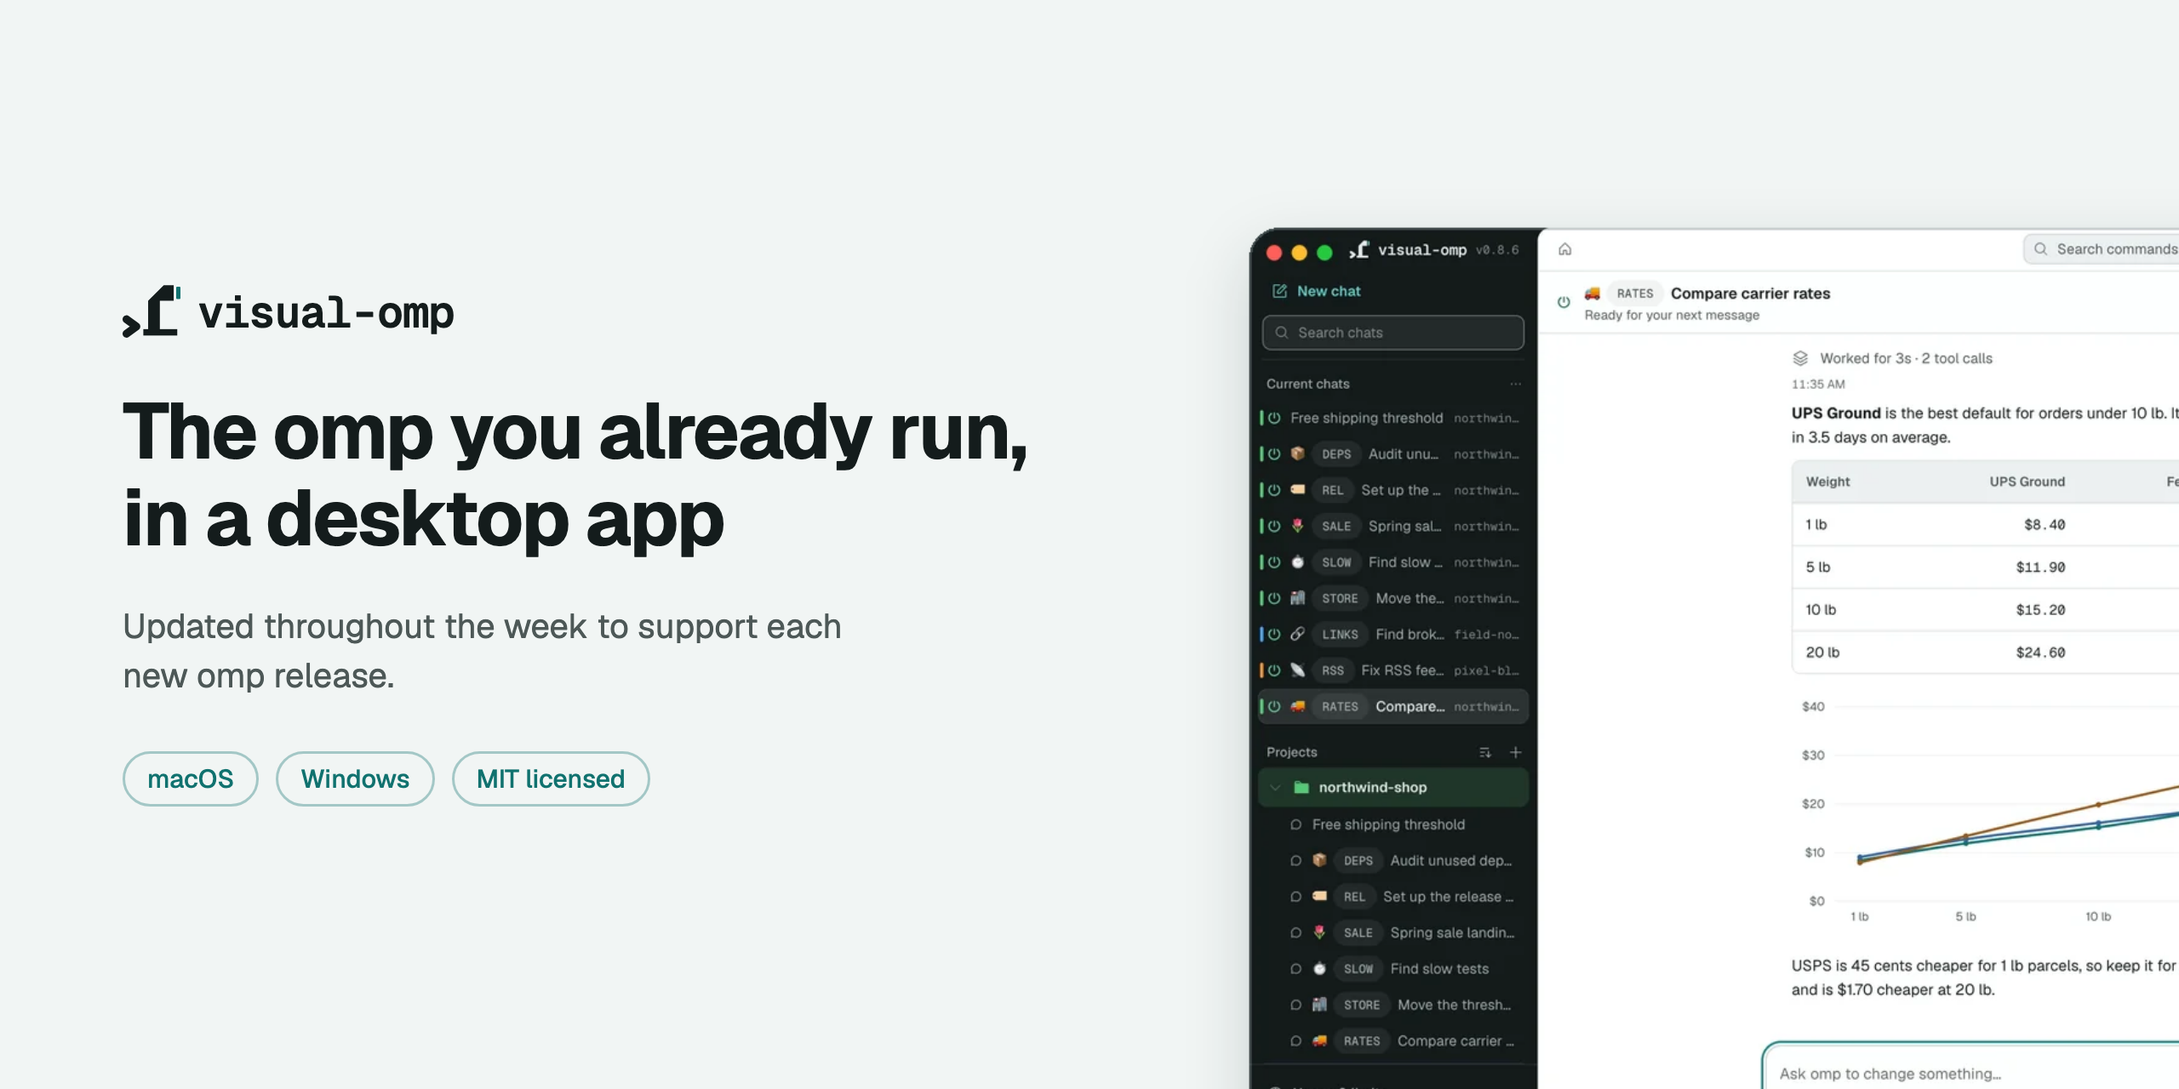
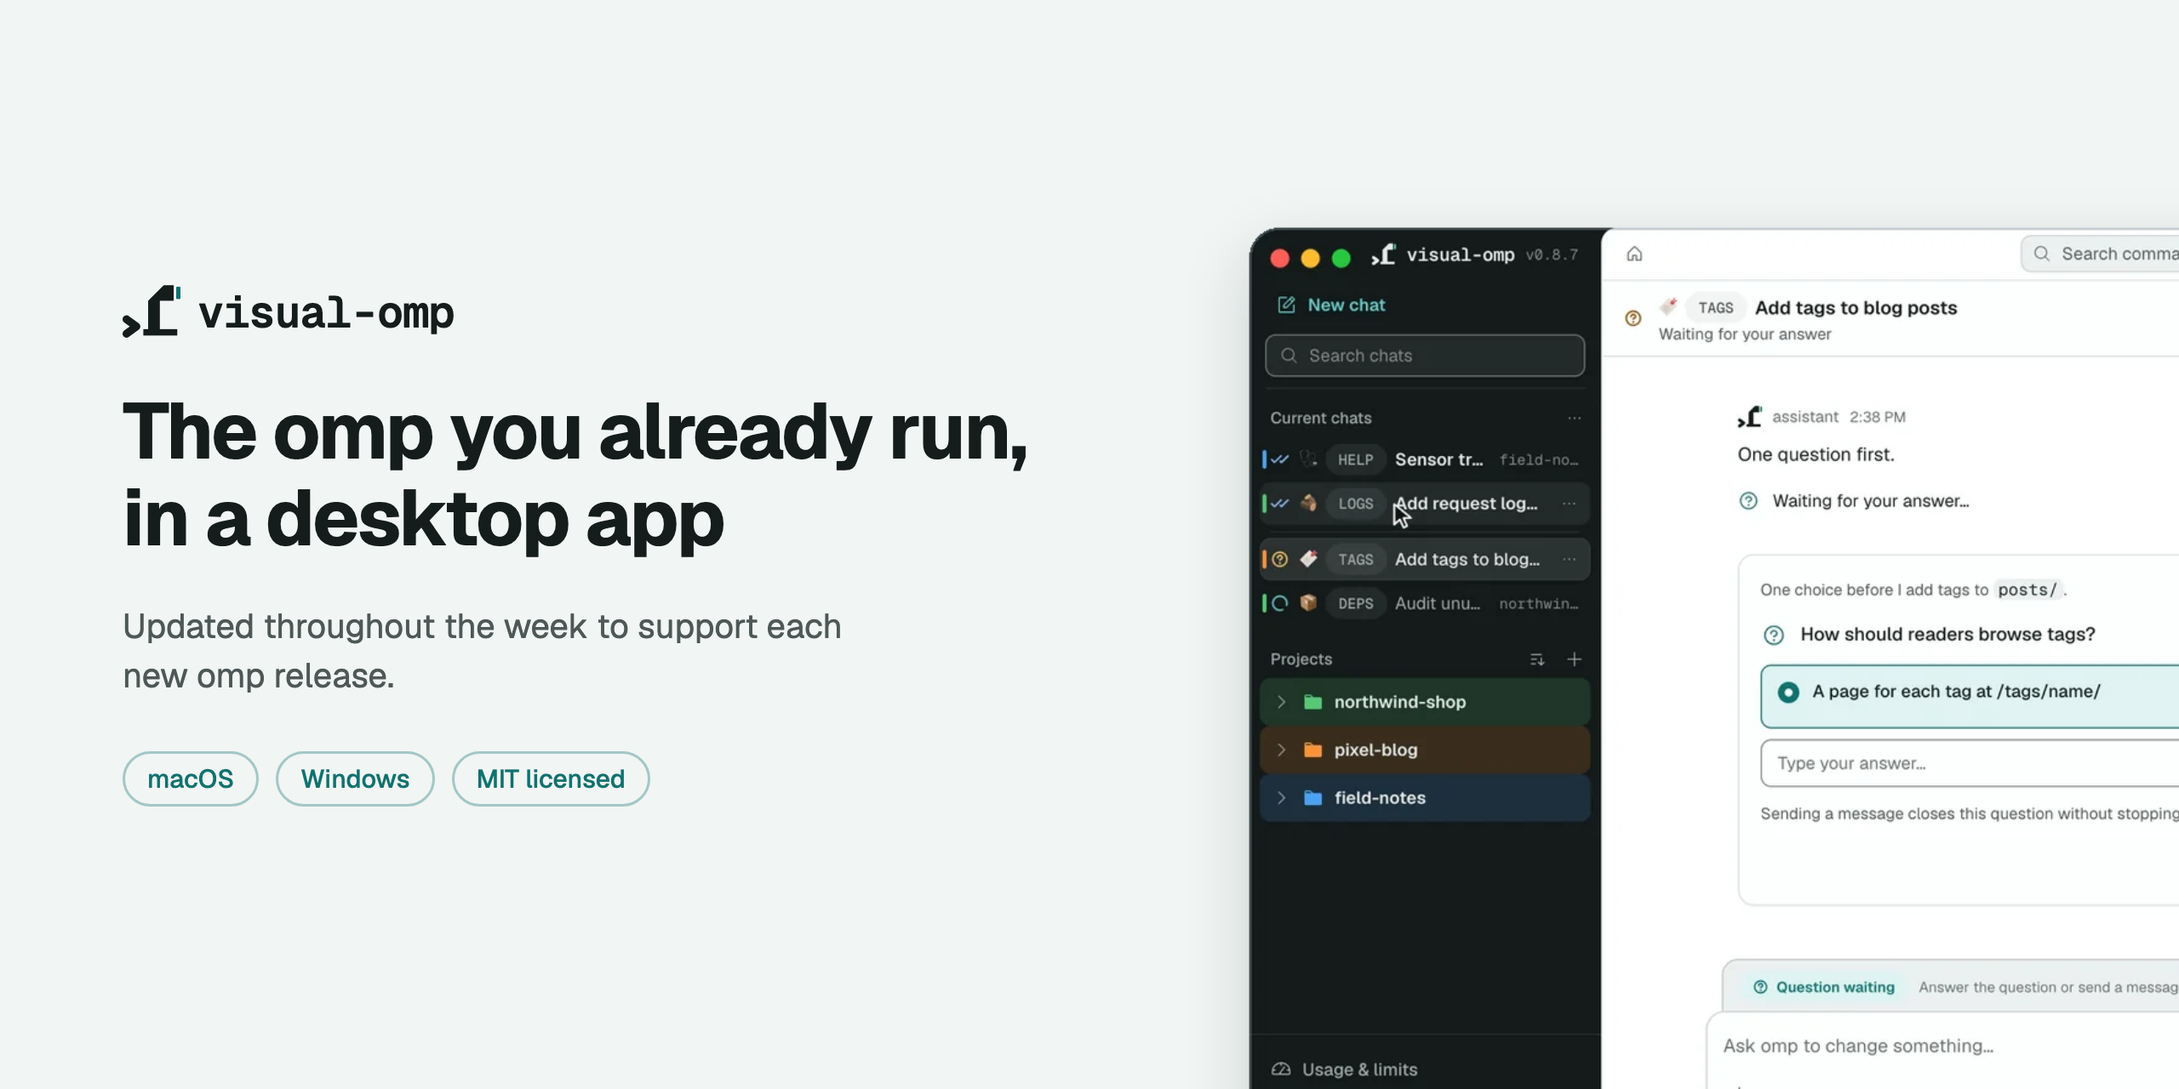
docs(readme): lead with chat statuses, files and themes
- New hero recording: four chats in three color-coded projects work at once, with the sidebar showing working, helpers-only, waiting and unopened-result states.
- New files recording: omp exports a page as a PDF and a PNG that open in the side panel, and the page it serves opens in the Preview pane.
- Features now open with every chat in one window, helpers, files and web pages, live outputs, themes and usage; browser steps mention omp's browser relay.
- Removes the rates chart and /extensions recordings; the banner uses the new hero poster.

diff --git a/scripts/readme/banner.html b/scripts/readme/banner.html
@@ -41,7 +41,7 @@
     <p>Updated throughout the week to support each new omp release.</p>
     <div class="meta"><span>macOS</span><span>Windows</span><span>MIT licensed</span></div>
   </div>
-  <img class="window" src="../../docs/images/hero-still.webp" alt="">
+  <img class="window" src="../../docs/images/glance-still.webp" alt="">
 </div>
 </body>
 </html>

diff --git a/README.md b/README.md
@@ -6,7 +6,7 @@
 </p>
 
 <p align="center">
-  visual-omp runs the <a href="https://github.com/can1357/oh-my-pi">omp</a> you already use and shows its chats, plans, helpers and changes in one window.
+  visual-omp runs the <a href="https://github.com/can1357/oh-my-pi">omp</a> you already use and puts every chat in one window, with each chat's status in the sidebar and its files, pages and helpers beside it.
 </p>
 
 <p align="center">
@@ -27,12 +27,12 @@
 
 <p align="center">
   <picture>
-    <source media="(prefers-reduced-motion: reduce)" srcset="docs/images/hero-still.webp">
-    <img src="docs/images/hero.webp" width="1440" alt="A message asks omp to compare three carriers in a rates file. omp reads the file, and its reply streams in with a table of prices by parcel weight and a line chart drawn beneath the table.">
+    <source media="(prefers-reduced-motion: reduce)" srcset="docs/images/glance-still.webp">
+    <img src="docs/images/glance.webp" width="1440" alt="Four chats in three color-coded projects work at once. While a new chat adds request logging, the sidebar shows the others working, one helper chat running its helpers, a troubleshooting page finishing with a new result mark, and a tags chat waiting for an answer. The tags question is answered from its card, and the finished request logging chat opens from the top of the list.">
   </picture>
 </p>
 
-<p align="center"><sub>omp reads the rate file, then its reply arrives with a table and the chart visual-omp draws from it.</sub></p>
+<p align="center"><sub>Four chats in three projects work at once. One stops to ask a question, and the others finish with a result mark that moves them to the top of Current chats.</sub></p>
 
 > [!NOTE]
 > The recordings on this page come from a development build made after visual-omp 0.8.6, using demo projects. A scripted demo model writes omp's replies, and omp runs every tool call in those projects. Some recordings speed up typing, waits and reply text, so they do not show a model's speed.
@@ -40,15 +40,6 @@
 ## Your own omp
 
 visual-omp starts the omp you installed in a hidden terminal on your computer and shows omp's own screen, so each chat uses your sign-ins, settings, extensions and saved sessions.
-
-<p align="center">
-  <picture>
-    <source media="(prefers-reduced-motion: reduce)" srcset="docs/images/own-omp-still.webp">
-    <img src="docs/images/own-omp.webp" width="1440" alt="Typing a slash in the message box lists omp's commands. Choosing /extensions opens omp's Extension Control Center inside the chat, where the list scrolls and a source filter changes before the screen closes.">
-  </picture>
-</p>
-
-<p align="center"><sub><code>/extensions</code> opens omp's Extension Control Center in the chat, drawn from what omp sends.</sub></p>
 
 - Slash commands go to omp as you type them. Commands with an app screen open that screen, and omp menus without one, such as `/extensions`, open in the omp screen.
 - Sessions you start in a terminal appear in the sidebar. On macOS you can follow one while the terminal works and continue it in the app once the terminal releases it.
@@ -72,35 +63,24 @@ visual-omp uses these omp mechanisms:
 
 ## Features
 
-### Tool steps and bash details
+### Every chat in one window
 
-Tool calls fold into a short list of steps. Open a bash step to see each command's state, the values it set and how long it took, then replay the run one event at a time.
+Each chat runs its own omp, and Current chats lists them all with their status. A spinner means omp is working, a pulsing robot means only its helpers are still working, a question mark means omp is waiting for your answer, and double check marks with a bold title mark a result you haven't opened yet. Chats with unopened results move to the top of the list. Give each project one of seven colors, and its folder and chat rows show that color.
 
-<p align="center">
-  <picture>
-    <source media="(prefers-reduced-motion: reduce)" srcset="docs/images/tools-still.webp">
-    <img src="docs/images/tools.webp" width="1440" alt="omp times each test file. Opening its bash step shows the Pseudo view of the loop with recorded values and durations, the output names the slowest file, and Replay opens its event controls.">
-  </picture>
-</p>
-
-<p align="center"><sub>omp times the test files, and the Pseudo view shows the loop, the values it recorded and each step's duration.</sub></p>
-
-### Plan review
-
-In plan mode, omp writes a plan and waits for you. Read it in the side panel, then approve it, compact the chat first or send a comment back from the card in the chat.
+The Dock icon on macOS and the taskbar button on Windows show how many chats have unopened results. With **Alert me in the background** on in Settings → Sounds & alerts, a chat that finishes or asks a question while the window is in the background also bounces the Dock icon once on macOS. On Windows it flashes the taskbar button and sends a notification, which plays a sound if your Windows notification settings allow it. <kbd>⌘K</kbd> (<kbd>Ctrl</kbd> + <kbd>K</kbd> on Windows) searches commands by what they do, and Open side by side shows two chats together.
 
 <p align="center">
   <picture>
-    <source media="(prefers-reduced-motion: reduce)" srcset="docs/images/plan-still.webp">
-    <img src="docs/images/plan.webp" width="1440" alt="A plan-mode message asks for a free-shipping threshold. omp drafts the plan, which appears in the side panel with goal, steps and out-of-scope sections, and choosing Approve and run on the review card starts the edits.">
+    <source media="(prefers-reduced-motion: reduce)" srcset="docs/images/chats-still.webp">
+    <img src="docs/images/chats.webp" width="1440" alt="The command palette opens a second chat side by side. Each chat gets a follow-up, both reply, and the Outputs pane previews the Markdown page that one of them wrote.">
   </picture>
 </p>
 
-<p align="center"><sub>omp drafts the free-shipping plan, and Approve and run starts the work in the same chat.</sub></p>
+<p align="center"><sub>Two chats in different projects work on follow-ups, and Outputs previews the page one of them adds.</sub></p>
 
 ### Helpers
 
-When omp hands work to helpers (subagents), each one gets a card in the chat that shows what it is doing. Open a helper to read its conversation while it runs, and use the Tasks pane for every helper's token count next to omp's todo list and background jobs.
+When omp hands work to helpers (subagents), each one gets a card in the chat that shows what it is doing and updates as it works. Open a helper to read its conversation while it runs, and use the Tasks pane for every helper's token count next to omp's todo list and background jobs. While only helpers are still working, the chat's row in the sidebar shows a pulsing robot.
 
 <p align="center">
   <picture>
@@ -111,18 +91,18 @@ When omp hands work to helpers (subagents), each one gets a card in the chat tha
 
 <p align="center"><sub>Three helpers check one package each, and omp collects their findings into one table.</sub></p>
 
-### Question cards
+### Files, PDFs and web pages
 
-When omp asks several questions, the card shows one at a time. Previous question and Next question keep your answers, and Send answers delivers them all together.
+Images, PDFs, video and audio open in the side panel, from the Files pane or from the Outputs pane, which lists the files omp saves as it works. Saved HTML files open as pages. A link to a local server opens in the chat's Preview pane, a built-in browser for dev servers, from the link's right-click menu.
 
 <p align="center">
   <picture>
-    <source media="(prefers-reduced-motion: reduce)" srcset="docs/images/questions-still.webp">
-    <img src="docs/images/questions.webp" width="1440" alt="omp asks three questions about a release workflow, one at a time. A tag pattern is chosen, two publishing targets are checked, the release notes source is chosen, and Send answers sends all three to omp.">
+    <source media="(prefers-reduced-motion: reduce)" srcset="docs/images/files-still.webp">
+    <img src="docs/images/files.webp" width="1440" alt="A message asks omp to export the spring sale page as a PDF flyer and a PNG preview and to serve it. omp runs headless Chrome and a local server, the Outputs pane shows the PNG and then the PDF, and Open in Preview pane from the link's menu loads the served page beside the chat.">
   </picture>
 </p>
 
-<p align="center"><sub>Three questions about a release workflow: which tags start a release, where it publishes and where its notes come from.</sub></p>
+<p align="center"><sub>omp exports the spring sale page to a PDF and a PNG with headless Chrome, and the page it serves opens in the Preview pane.</sub></p>
 
 ### Live outputs
 
@@ -137,6 +117,49 @@ The Outputs pane previews HTML, Markdown, CSV, SVG and Mermaid as omp writes the
 
 <p align="center"><sub>omp writes the stylesheet first, and the preview updates as omp writes the page.</sub></p>
 
+### Themes and settings
+
+Appearance offers six color themes, each in light and dark, and each one recolors the whole window. Settings also covers omp's providers, model roles, permissions, helpers, MCP servers, skills and memory, and it saves changes to omp's own settings. **Models & roles** assigns models to jobs such as chat, planning and commits, and provider sign-in opens omp's own sign-in inside the app, including when a token expires.
+
+<p align="center">
+  <picture>
+    <source media="(prefers-reduced-motion: reduce)" srcset="docs/images/settings-still.webp">
+    <img src="docs/images/settings.webp" width="1440" alt="In Settings, Appearance, choosing the Ocean, Plum and Ember color themes recolors the whole window. The dark theme follows, and the window returns to Teal in light mode.">
+  </picture>
+</p>
+
+<p align="center"><sub>Each color theme recolors the whole window, in light and dark.</sub></p>
+
+### Usage and app resources
+
+The status bar shows plan usage for the providers your chats use, such as Claude's 5-hour window, next to the CPU and RAM that visual-omp itself is using. **Usage & limits** adds each provider's plan limits and the usage recorded in omp's session files, by day and by chat.
+
+### Plan review
+
+In plan mode, omp writes a plan and waits for you. Read it in the side panel, then approve it, compact the chat first or send a comment back from the card in the chat.
+
+<p align="center">
+  <picture>
+    <source media="(prefers-reduced-motion: reduce)" srcset="docs/images/plan-still.webp">
+    <img src="docs/images/plan.webp" width="1440" alt="A plan-mode message asks for a free-shipping threshold. omp drafts the plan, which appears in the side panel with goal, steps and out-of-scope sections, and choosing Approve and run on the review card starts the edits.">
+  </picture>
+</p>
+
+<p align="center"><sub>omp drafts the free-shipping plan, and Approve and run starts the work in the same chat.</sub></p>
+
+### Question cards
+
+When omp asks several questions, the card shows one at a time. Previous question and Next question keep your answers, and Send answers delivers them all together.
+
+<p align="center">
+  <picture>
+    <source media="(prefers-reduced-motion: reduce)" srcset="docs/images/questions-still.webp">
+    <img src="docs/images/questions.webp" width="1440" alt="omp asks three questions about a release workflow, one at a time. A tag pattern is chosen, two publishing targets are checked, the release notes source is chosen, and Send answers sends all three to omp.">
+  </picture>
+</p>
+
+<p align="center"><sub>Three questions about a release workflow: which tags start a release, where it publishes and where its notes come from.</sub></p>
+
 ### Changes and line comments
 
 The Changes pane shows uncommitted diffs and commit history. Comment on a line to send it to omp, then commit with a generated message, open a pull request and check CI.
@@ -150,31 +173,18 @@ The Changes pane shows uncommitted diffs and commit history. Comment on a line t
 
 <p align="center"><sub>A line comment goes to omp, which moves the threshold into <code>data/store.json</code> and reruns the tests.</sub></p>
 
-### Several chats and the command palette
+### Tool steps and bash details
 
-Current chats lists every open chat, marked with its project's color when the project has one. <kbd>⌘K</kbd> (<kbd>Ctrl</kbd> + <kbd>K</kbd> on Windows) searches commands by what they do, and Open side by side shows two chats together.
-
-<p align="center">
-  <picture>
-    <source media="(prefers-reduced-motion: reduce)" srcset="docs/images/chats-still.webp">
-    <img src="docs/images/chats.webp" width="1440" alt="The command palette opens a second chat side by side. Each chat gets a follow-up, both reply, and the Outputs pane previews the Markdown page that one of them wrote.">
-  </picture>
-</p>
-
-<p align="center"><sub>Two chats in different projects work on follow-ups, and Outputs previews the page one of them adds.</sub></p>
-
-### Settings
-
-Settings covers omp's providers, model roles, permissions, helpers, MCP servers, skills and memory, and it saves changes to omp's own settings. **Models & roles** assigns models to jobs such as chat, planning and commits, and provider sign-in opens omp's own sign-in inside the app, including when a token expires. Appearance offers six color themes in light and dark.
+Tool calls fold into a short list of steps. Open a bash step to see each command's state, the values it set and how long it took, then replay the run one event at a time. Browser steps show the page omp opened and the screenshots it took, including tabs in your own Chrome when omp uses its browser relay.
 
 <p align="center">
   <picture>
-    <source media="(prefers-reduced-motion: reduce)" srcset="docs/images/settings-still.webp">
-    <img src="docs/images/settings.webp" width="1440" alt="In Settings, Appearance, choosing the Ocean, Plum and Ember color themes recolors the whole window. The dark theme follows, and the window returns to Teal in light mode.">
+    <source media="(prefers-reduced-motion: reduce)" srcset="docs/images/tools-still.webp">
+    <img src="docs/images/tools.webp" width="1440" alt="omp times each test file. Opening its bash step shows the Pseudo view of the loop with recorded values and durations, the output names the slowest file, and Replay opens its event controls.">
   </picture>
 </p>
 
-<p align="center"><sub>Each color theme recolors the whole window, in light and dark.</sub></p>
+<p align="center"><sub>omp times the test files, and the Pseudo view shows the loop, the values it recorded and each step's duration.</sub></p>
 
 ### Phone sharing
 
@@ -192,7 +202,7 @@ The computer stays awake while sharing, though closing its lid can still put it 
 | Area | What's included |
 | --- | --- |
 | **Projects** | Start a chat in any folder, create a folder or clone a repository, and sort or group the sidebar |
-| **Transcript** | SVG and Mermaid diagrams, with Normal, Thinking and Verbose views of omp's work |
+| **Transcript** | SVG and Mermaid diagrams, charts drawn from tables in omp's replies, and Normal, Thinking and Verbose views of omp's work |
 | **Modes** | Plan, Goal, Vibe and Loop modes and the Advisor, from the chat's ⋯ menu or the command palette |
 | **omp features** | MCP servers, skills and plugins, memory, usage and cost, live collaboration, Claude Code and Codex imports, the session tree, the security scan and `omp cleanse` |
 | **Accessibility** | Text size, reduced motion, light and dark themes, keyboard commands, screen-reader labels, the first-launch tour and Help's glossary |

diff --git a/docs/DESIGN.md b/docs/DESIGN.md
@@ -1322,11 +1322,11 @@ Three download buttons follow, each 52px high with a 12px radius and a Phosphor 
 
 ### 7.2 README recordings
 
-Each feature in the README has an animated WebP in `docs/images/` and a `-still.webp` poster that `prefers-reduced-motion: reduce` selects. Each recording is centered under its section's text at the full content width. Recordings come from a development build at a 1440×920 window and device scale factor 2, using demo projects and a scripted OpenAI-compatible demo model; omp runs every tool call. Every loop shows the whole window at 1280px inside a 1440px canvas with an 80px margin. Page captures leave out the native title bar, so each frame gets the macOS traffic lights drawn where the app places them: 14pt buttons in the focused-window colors, centered at 23, 46 and 69pt across and 23pt down, which matches `trafficLightPosition` (16, 16) on macOS 26 and later. Each frame is drawn on a transparent canvas with a rounded clip, a gray edge and a soft shadow, so one light-theme asset works on both GitHub themes. Each loop stays at or under about 900 KB.
+Each feature in the README has an animated WebP in `docs/images/` and a `-still.webp` poster that `prefers-reduced-motion: reduce` selects. Each recording is centered under its section's text at the full content width. Recordings come from a development build at a 1440×920 window and device scale factor 2, using demo projects and a scripted OpenAI-compatible demo model; omp runs every tool call. Every loop shows the whole window at 1280px inside a 1440px canvas with an 80px margin. The hero loop (`glance`) uses a 1180×760 window instead, so the sidebar's chat statuses and project colors stay legible at README width. Page captures leave out the native title bar, so each frame gets the macOS traffic lights drawn where the app places them: 14pt buttons in the focused-window colors, centered at 23, 46 and 69pt across and 23pt down, which matches `trafficLightPosition` (16, 16) on macOS 26 and later. Each frame is drawn on a transparent canvas with a rounded clip, a gray edge and a soft shadow, so one light-theme asset works on both GitHub themes. Each loop stays at or under about 900 KB.
 
 ### 7.3 Banner
 
-`assets/readme/banner.png` is a 1280×640 banner rendered at 2× for posts and GitHub's social preview. On the flat `#F1F5F4` canvas, the left column holds the C1 mark with the `visual-omp` wordmark, the headline "The omp you already run, in a desktop app" in Geist 700 at 46px, a muted line about updates for each omp release, and outlined teal pills for macOS, Windows and the MIT license. The hero poster's window extends past the right and bottom edges. `scripts/readme/banner.html` is its source, and its header comment gives the headless Chrome command that renders it.
+`assets/readme/banner.png` is a 1280×640 banner rendered at 2× for posts and GitHub's social preview. On the flat `#F1F5F4` canvas, the left column holds the C1 mark with the `visual-omp` wordmark, the headline "The omp you already run, in a desktop app" in Geist 700 at 46px, a muted line about updates for each omp release, and outlined teal pills for macOS, Windows and the MIT license. The `glance` poster's window, with its sidebar of chat statuses, extends past the right and bottom edges. `scripts/readme/banner.html` is its source, and its header comment gives the headless Chrome command that renders it.
 
 ---
 
